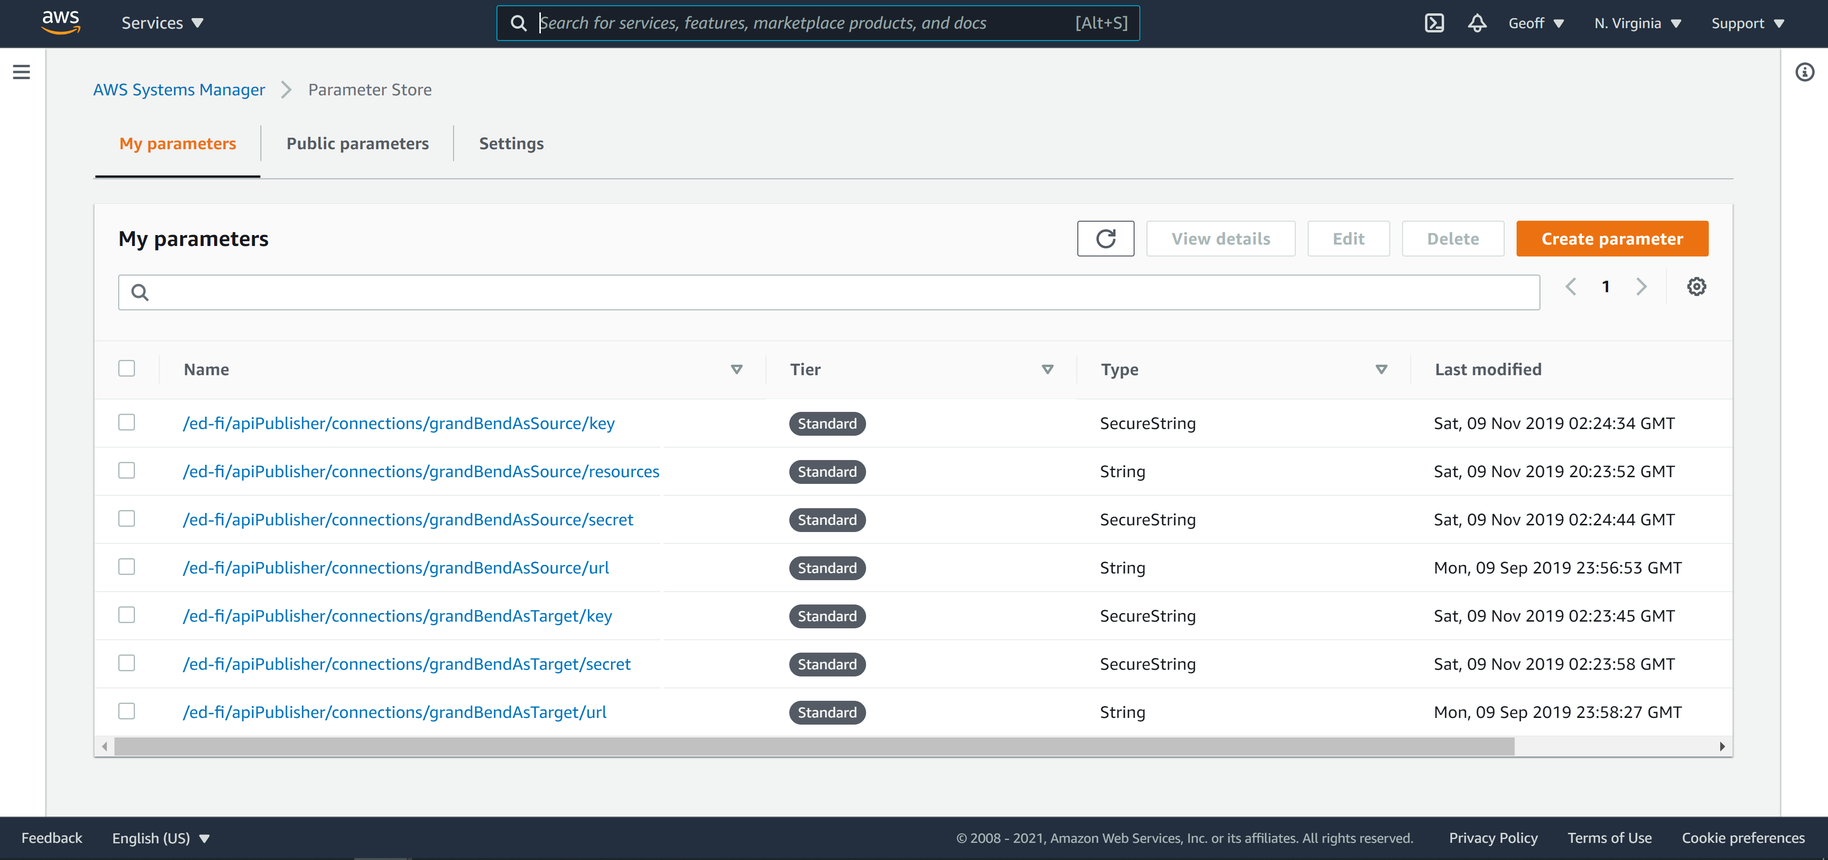
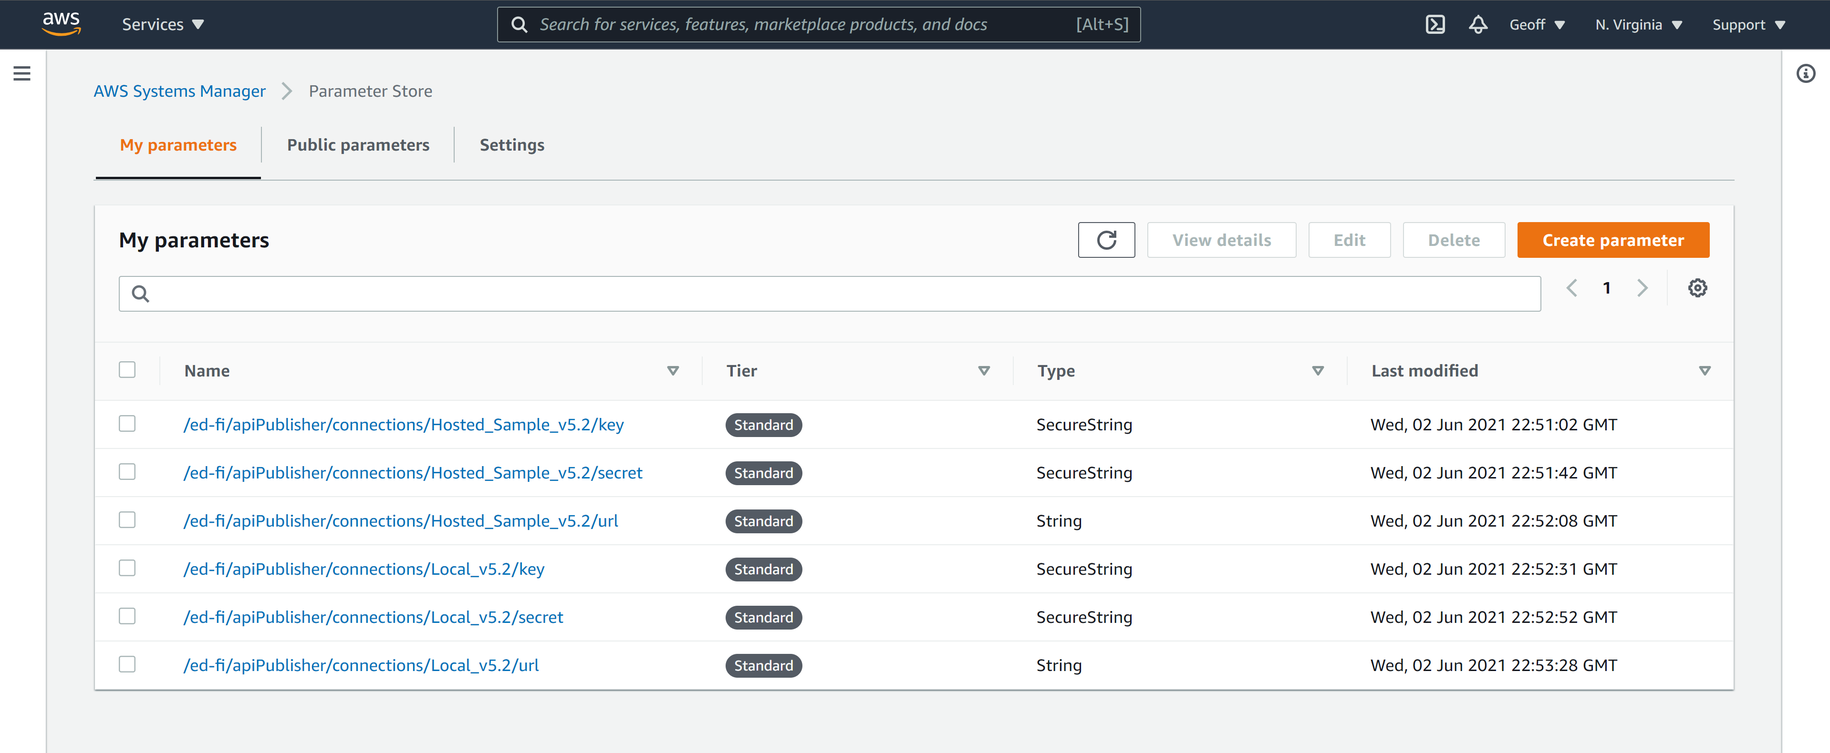
Final adjustments to code and documentation.

diff --git a/EdFi.Tools.ApiPublisher.Configuration.SqlServer/SqlServerConfigurationNamedApiConnectionDetailsReader.cs b/EdFi.Tools.ApiPublisher.Configuration.SqlServer/SqlServerConfigurationNamedApiConnectionDetailsReader.cs
@@ -15,7 +15,7 @@ namespace EdFi.Tools.ApiPublisher.Configuration.SqlServer
 
             // Load named connection information from SQL Server configuration store
             var config = new ConfigurationBuilder()
-                .AddSqlServerConfiguration(ConfigurationStoreHelper.Key(apiConnectionName), sqlServerConfiguration.ConnectionString)
+                .AddConfigurationStoreForSqlServer(ConfigurationStoreHelper.Key(apiConnectionName), sqlServerConfiguration.ConnectionString)
                 .Build();
 
             // Read the connection details from the configuration values

diff --git a/EdFi.Tools.ApiPublisher.Configuration.PostgreSql/PostgreSqlConfigurationNamedApiConnectionDetailsReader.cs b/EdFi.Tools.ApiPublisher.Configuration.PostgreSql/PostgreSqlConfigurationNamedApiConnectionDetailsReader.cs
@@ -20,7 +20,7 @@ namespace EdFi.Tools.ApiPublisher.Configuration.PostgreSql
             
             // Load named connection information from PostgreSQL configuration store
             var config = new ConfigurationBuilder()
-                .AddPostgreSqlConfigurationStore(
+                .AddConfigurationStoreForPostgreSql(
                     ConfigurationStoreHelper.Key(apiConnectionName),
                     postgresConfiguration.ConnectionString,
                     postgresConfiguration.EncryptionPassword)

diff --git a/EdFi.Tools.ApiPublisher.Cli/Program.cs b/EdFi.Tools.ApiPublisher.Cli/Program.cs
@@ -25,7 +25,7 @@ namespace EdFi.Tools.ApiPublisher.Cli
             InitializeLogging();
 
             Logger.Info(
-                "Initializing the Ed-Fi API Publisher, designed and developed by Geoff McElhanon (Edufied LLC) in conjunction with Student1.");
+                "Initializing the Ed-Fi API Publisher, designed and developed by Geoff McElhanon (geoffrey@mcelhanon.com, Edufied LLC) in conjunction with Student1.");
 
             try
             {

diff --git a/EdFi.Tools.ApiPublisher.Core/Configuration/Plaintext/PlaintextConnectionConfigurationInstaller.cs b/EdFi.Tools.ApiPublisher.Core/Configuration/Plaintext/PlaintextConnectionConfigurationInstaller.cs
@@ -6,7 +6,7 @@ using EdFi.Tools.ApiPublisher.Core.Processing;
 
 namespace EdFi.Tools.ApiPublisher.Core.Configuration.Plaintext
 {
-    [ApiConnectionsConfigurationSourceName("plaintext")]
+    [ApiConnectionsConfigurationSourceName("plainText")]
     public class PlaintextConnectionConfigurationInstaller : RegistrationMethodsInstallerBase
     {
         protected virtual void RegisterIChangeVersionProcessedWriter(IWindsorContainer container)

diff --git a/EdFi.Tools.ApiPublisher.Core/Configuration/ConfigurationBuilderFactory.cs b/EdFi.Tools.ApiPublisher.Core/Configuration/ConfigurationBuilderFactory.cs
@@ -48,6 +48,7 @@ namespace EdFi.Tools.ApiPublisher.Core.Configuration
                     ["--ignoreIsolation"] = "Connections:Source:IgnoreIsolation",
 
                     // PostgreSQL configuration store
+                    ["--configurationStoreProvider"] = "ConfigurationStore:Provider",
                     ["--postgreSqlEncryptionPassword"] = "ConfigurationStore:PostgreSql:EncryptionPassword",
                 });
 

diff --git a/EdFi.Tools.ApiPublisher.Configuration.PostgreSql/ConfigurationBuilderExtensions.cs b/EdFi.Tools.ApiPublisher.Configuration.PostgreSql/ConfigurationBuilderExtensions.cs
@@ -5,7 +5,7 @@ namespace Microsoft.Extensions.Configuration
 {
     public static class ConfigurationBuilderExtensions
     {
-        public static IConfigurationBuilder AddPostgreSqlConfigurationStore(
+        public static IConfigurationBuilder AddConfigurationStoreForPostgreSql(
             this IConfigurationBuilder builder,
             string configurationKeyPath,
             string connectionString,

diff --git a/EdFi.Tools.ApiPublisher.Configuration.SqlServer/ConfigurationBuilderExtensions.cs b/EdFi.Tools.ApiPublisher.Configuration.SqlServer/ConfigurationBuilderExtensions.cs
@@ -5,7 +5,7 @@ namespace Microsoft.Extensions.Configuration
 {
     public static class ConfigurationBuilderExtensions
     {
-        public static IConfigurationBuilder AddSqlServerConfiguration(
+        public static IConfigurationBuilder AddConfigurationStoreForSqlServer(
             this IConfigurationBuilder builder,
             string configurationKeyPath,
             string connectionString)

diff --git a/Documentation/API-Connection-Management.md b/Documentation/API-Connection-Management.md
@@ -2,7 +2,7 @@
 
 The Quick Start exercise supplies all connection information explicitly as command-line arguments, however to better operationalize the API Publisher you should create a Configuration Store to securely configure named API connections, and to track the state of publishing between various source and target APIs.
 
-The Configuration Store implementation can be selected by modifying the `provider` value in the _configurationStoreSettings.json_ file.
+The Configuration Store implementation can be selected by passing the `--configurationStoreProvider` command-line argument, by setting the `EdFi:ApiPublisher:ConfigurationStore:Provider` environment variable, by modifying the `provider` value in the _configurationStoreSettings.json_ file (in that order of precedence).
 
 ```json
 {
@@ -24,14 +24,14 @@ The Configuration Store implementation can be selected by modifying the `provide
 }
 ```
 
-Currently there are three configuration store implementations available:
+Currently there are four configuration store implementations available:
 
-| Setting Value                    | Implementation                                                         | Description                                                                                                                                                                                                                                                                                                                                                                                                                                                                                                                                                                                               |
-| -------------------------------- | ---------------------------------------------------------------------- | --------------------------------------------------------------------------------------------------------------------------------------------------------------------------------------------------------------------------------------------------------------------------------------------------------------------------------------------------------------------------------------------------------------------------------------------------------------------------------------------------------------------------------------------------------------------------------------------------------- |
-| <nobr>`sqlServer`</nobr>         | [Configuration Store for SQL Server](ConfigurationStore/Sql-Server.md) | Reads API connection details from and writes successfully published changed version numbers to a SQL Server configuration table. Enables management of individual connection settings with encryption for securely storing keys and secrets using the built-in support for symmetric key encryption in SQL Server.                                                                                                                                                                                                                                                                                        |
-| <nobr>`postgreSql`</nobr>        | [Configuration Store for PostgreSQL](ConfigurationStore/PostgreSql.md) | Reads API connection details from and writes successfully published changed version numbers to a PostgreSQL configuration table. Enables management of individual connection settings with encryption support for securely storing keys and secrets using a supplied password for symmetric key encryption using the `pgcrypto` extension for PostgreSQL.                                                                                                                                                                                                                                                 |
-| <nobr>`awsParameterStore`</nobr> | Configuration Store for AWS Parameter Store                            | Reads API connection details from and writes successfully published changed version numbers to the [AWS Systems Manager Parameter Store](https://docs.aws.amazon.com/systems-manager/latest/userguide/systems-manager-parameter-store.html) using the AWS region specified in the `awsParameterStore` property of the _configurationStoreSettings.json_ file. It also assumes the runtime environment has been initialized with the necessary credentials for accessing AWS services. Enables management of individual connection settings with encryption support for securely storing keys and secrets. |
-| `plainText`                      | Plain Text Configuration Store                                         | Reads connection information defined in plain text in the _plainTextNamedConnection.json file_. Intended for development use only. Does not support writing back the successfully published Change Version.                                                                                                                                                                                                                                                                                                                                                                                               |
+| Setting Value                    | Implementation                                                                           | Description                                                                                                                                                                                                                                                                                                                                                                                                                                                                                                                                                                                               |
+| -------------------------------- | ---------------------------------------------------------------------------------------- | --------------------------------------------------------------------------------------------------------------------------------------------------------------------------------------------------------------------------------------------------------------------------------------------------------------------------------------------------------------------------------------------------------------------------------------------------------------------------------------------------------------------------------------------------------------------------------------------------------- |
+| <nobr>`sqlServer`</nobr>         | [Configuration Store for SQL Server](ConfigurationStore/Sql-Server.md)                   | Reads API connection details from and writes successfully published changed version numbers to a SQL Server configuration table. Enables management of individual connection settings with encryption for securely storing keys and secrets using the built-in support for symmetric key encryption in SQL Server.                                                                                                                                                                                                                                                                                        |
+| <nobr>`postgreSql`</nobr>        | [Configuration Store for PostgreSQL](ConfigurationStore/PostgreSql.md)                   | Reads API connection details from and writes successfully published changed version numbers to a PostgreSQL configuration table. Enables management of individual connection settings with encryption support for securely storing keys and secrets using a supplied password for symmetric key encryption using the `pgcrypto` extension for PostgreSQL.                                                                                                                                                                                                                                                 |
+| <nobr>`awsParameterStore`</nobr> | [Configuration Store for AWS Parameter Store](ConfigurationStore/Aws-Parameter-Store.md) | Reads API connection details from and writes successfully published changed version numbers to the [AWS Systems Manager Parameter Store](https://docs.aws.amazon.com/systems-manager/latest/userguide/systems-manager-parameter-store.html) using the AWS region specified in the `awsParameterStore` property of the _configurationStoreSettings.json_ file. It also assumes the runtime environment has been initialized with the necessary credentials for accessing AWS services. Enables management of individual connection settings with encryption support for securely storing keys and secrets. |
+| `plainText`                      | Plain Text Configuration Store                                                           | Reads connection information defined in plain text in the _plainTextNamedConnection.json file_. Intended for development purposes only. Does not support writing back the successfully published Change Version.                                                                                                                                                                                                                                                                                                                                                                                          |
 
 ## Defining API Connections
 
@@ -52,6 +52,10 @@ Regardless of the configuration store implementation in use, the configuration s
 ### SQL Server Configuration
 
 ![SQL Server](../images/Sql-Server-configuration-store-example.png)
+
+### PostgreSQL Configuration
+
+![PostgreSQL](../images/PostgreSql-configuration-store-example.png)
 
 ### AWS Parameter Store Configuration
 

diff --git a/Documentation/API-Publisher-Configuration.md b/Documentation/API-Publisher-Configuration.md
@@ -40,7 +40,7 @@ To select or supply source and target connection information, the following conf
 | Connections:Source:Scope<br/>`--sourceScope`                                       | (_Optional_) The EducationOrganizationId scope requested for the resulting access token. The value must be an EducationOrganizationId that is explicitly associated with the API client by the source Ed-Fi ODS API.<br/><br/>Intended for use to allow a single API connection configuration to be used to read changes from the controlling organization's Ed-Fi ODS API, but with the operations of the Ed-Fi API Publisher authorized for a particular Education Organization.                                                                                                                                                                                                                                  |
 | Connection:Source:Resources<br/>`--resources`                                      | (_Optional_) For _source_ API connections, the resources to publish to the target. The value is defined using a CSV format (comma-separated values), and should contain the partial paths to the resources (e.g. _/ed-fi/students_,_/custom/busRoutes_). For convenience when working with Ed-Fi standard resources, only the name is required (e.g. _students,studentSchoolAssociations_). The Ed-Fi API Publisher will also evaluate and automatically include all dependencies of the requested resources (using the dependency metadata exposed by the target API). This will ensure (barring misconfigured authorization metadata or data policies) that data can be successfully published to the target API. |
 | Connection:Source:ExcludeResources<br/>`--excludeResources`                        | (_Optional_) For _source_ API connections, the resources to NOT publish to the target. The value is defined using the same format as with `--resources` (see above). The Ed-Fi API Publisher will also evaluate and automatically exclude all dependent resources of the excluded resources (using the dependency metadata exposed by the target API). This will ensure (barring misconfigured authorization metadata or data policies) that data can be successfully published to the target API. This argument is mutually exclusive with the `--resources` argument, which take precedence if both are provided.                                                                                                 |
-| Connections:Source:Force<br/>`--force`                                             | (_Optional_) A boolean value (true/false) indicating whether the source Ed-Fi ODS API data should be published even if it does not support an isolated context through the use of database snapshots (see the "Publishing" extension described earlier in this document for more details). (NOTE: This is not a flag -- the value `true` or `false` must be provided.)                                                                                                                                                                                                                                                                                                                                              |
+| Connections:Source:IgnoreIsolation<br/>`--ignoreIsolation`                         | (_Optional_) A boolean value (`true`/`false`) indicating whether the source Ed-Fi ODS API data should be published even if it does not support an isolated context through the use of database snapshots. (NOTE: This is not a flag -- the value `true` or `false` must be provided (i.e. `--ignoreIsolation=true`).)                                                                                                                                                                                                                                                                                                                                                                                               |
 | Connections:Source:LastChangeVersionProcessed<br/>`--lastChangeVersionProcessed`   | _(Optional)_ Indicates the last change version successfully published from the _source_ API, and thus the change version _after_ which the current publishing operation should start. _This value explicitly overrides any change version value obtained from a named connection._                                                                                                                                                                                                                                                                                                                                                                                                                                  |
 | Connections:Target:Name<br/>`--targetName`                                         | The name of the pre-configured connection for the target Ed-Fi ODS API.                                                                                                                                                                                                                                                                                                                                                                                                                                                                                                                                                                                                                                             |
 | Connections:Target:Url<br/>`--targetUrl`                                           | The URL of the target Ed-Fi ODS API. _Only required if named connections are not in use._                                                                                                                                                                                                                                                                                                                                                                                                                                                                                                                                                                                                                           |

diff --git a/Documentation/ConfigurationStore/PostgreSql.md b/Documentation/ConfigurationStore/PostgreSql.md
@@ -1,4 +1,4 @@
-# PostgreSQL Configuration Store
+# Configuration Store for PostgreSQL
 
 Enables management of individual connection settings with encryption for securely storing keys and secrets using a supplied password for symmetric key encryption using the `pgcrypto` extension for PostgreSQL.
 
@@ -29,18 +29,19 @@ For the API Publisher, the password can be supplied via the command-line using `
 ```sql
 -- Insert plain text values into the 'configuration_value' column
 insert into dbo.configuration_value(configuration_key, configuration_value)
-values ('/ed-fi/apiPublisher/connections/EdFi_Hosted_Sample_v5.2/url', 'https://api.ed-fi.org/v5.2/api/');
+values ('/ed-fi/apiPublisher/connections/Hosted_Sample_v5.2/url', 'https://api.ed-fi.org/v5.2/api/');
 
 -- Insert encrypted values into 'configuration_value_encrypted' column
 insert into dbo.configuration_value(configuration_key, configuration_value_encrypted)
-values ('/ed-fi/apiPublisher/connections/EdFi_Hosted_Sample_v5.2/key', pgp_sym_encrypt('RvcohKz9zHI4', 'my-secure-password'));
+values ('/ed-fi/apiPublisher/connections/Hosted_Sample_v5.2/key', pgp_sym_encrypt('RvcohKz9zHI4', 'my-secure-password'));
 
 insert into dbo.configuration_value(configuration_key, configuration_value_encrypted)
-values ('/ed-fi/apiPublisher/connections/EdFi_Hosted_Sample_v5.2/secret', pgp_sym_encrypt('E1iEFusaNf81xzCxwHfbolkC', 'my-secure-password'));
+values ('/ed-fi/apiPublisher/connections/Hosted_Sample_v5.2/secret', pgp_sym_encrypt('E1iEFusaNf81xzCxwHfbolkC', 'my-secure-password'));
 ```
 
-> NOTE: The name of the connection (`EdFi_Hosted_Sample_v5.2` in the example above) should not contain spaces since a primary usage scenario is to provide the name in a command-line argument to the utility (i.e. `--sourceName=EdFi_Hosted_Sample_v5.2`).
+![PostgreSQL Configuration Store](../../images/PostgreSql-configuration-store-example.png)
 
+> NOTE: The name of the connection (`Hosted_Sample_v5.2` in the example above) should not contain spaces since a primary usage scenario is to provide the name in a command-line argument to the utility (i.e. `--sourceName=Hosted_Sample_v5.2`).
 
 ## Configure API Publisher
 

diff --git a/Documentation/ConfigurationStore/Aws-Parameter-Store.md b/Documentation/ConfigurationStore/Aws-Parameter-Store.md
@@ -1,4 +1,4 @@
-# AWS Systems Manager Parameter Store Configuration
+# Configuration Store for AWS Parameter Store
 
 Enables management of individual connection settings with encryption support for securely storing keys and secrets in the [AWS Systems Manager Parameter Store](https://docs.aws.amazon.com/systems-manager/latest/userguide/systems-manager-parameter-store.html).
 
@@ -8,7 +8,7 @@ Ensure that the AWS SDK has the necessary [configured AWS credentials](https://d
 
 ## Configure API Connections
 
-Use the AWS console's UI (or other preferred mechanism) to manage API connection details, providing key names as defined in  [API Connection Management](../API-Connection-Management.md). When creating entries for API client keys or secrets, use the _SecureString_ type for the value.
+Use the AWS console's UI (or other preferred mechanism) to manage API connection details, providing key names as defined in  [API Connection Management](../API-Connection-Management.md). When creating entries for API client *keys* or *secrets*, use the _SecureString_ type for the value.
 
 ![AWS](../../images/Aws-Parameter-Store-configuration-store-example.png)
 

diff --git a/Documentation/ConfigurationStore/Sql-Server.md b/Documentation/ConfigurationStore/Sql-Server.md
@@ -1,4 +1,4 @@
-# SQL Server Configuration Store
+# Configuration Store for SQL Server
 
 Enables management of individual connection settings with encryption support for securely storing keys and secrets using built-in support for symmetric key encryption in a SQL Server database.
 
@@ -215,7 +215,7 @@ EXEC    [dbo].[SetConfigurationValue]
 GO
 ```
 
-![SQL Server](../../images/Sql-Server-configuration-store-example.png)
+![SQL Server Configuration Store](../../images/Sql-Server-configuration-store-example.png)
 
 ## Configure API Publisher
 
